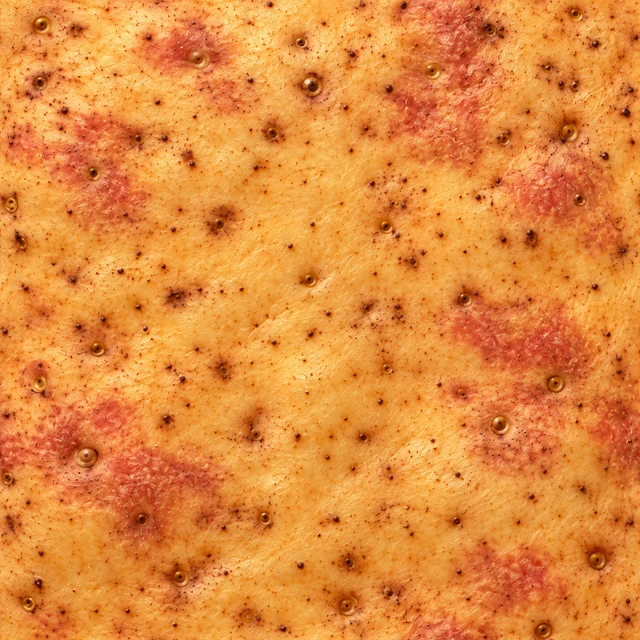
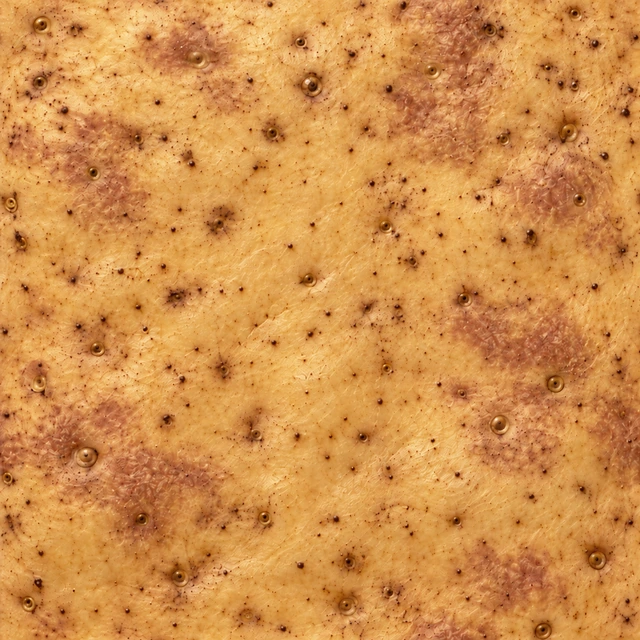
Apply less saturated potato peel texture (v0.22.24)

diff --git a/index.html b/index.html
@@ -1,5 +1,5 @@
 <!doctype html>
-<html lang="it"><head><meta charset="utf-8"><meta name="viewport" content="width=device-width,initial-scale=1,viewport-fit=cover,user-scalable=no"><meta name="theme-color" content="#34252c"><link rel="icon" type="image/svg+xml" href="./favicon.svg?v=0.22.22"><title>10 Potatoes</title>
+<html lang="it"><head><meta charset="utf-8"><meta name="viewport" content="width=device-width,initial-scale=1,viewport-fit=cover,user-scalable=no"><meta name="theme-color" content="#34252c"><link rel="icon" type="image/svg+xml" href="./favicon.svg?v=0.22.24"><title>10 Potatoes</title>
 <style>
 *{box-sizing:border-box}html,body{margin:0;height:100%;font-family:system-ui,Arial;background:#0b1629;color:white;overscroll-behavior:none}#app{height:100dvh;max-width:560px;margin:auto;display:flex;flex-direction:column;background:#23354f}header{flex:none;display:flex;align-items:center;justify-content:space-between;gap:8px;padding:calc(12px + env(safe-area-inset-top)) 12px 12px;background:#101e34}header strong{font-size:15px}header small{display:block;color:#adc0da;font-size:11px}#clock{font-size:22px;font-weight:800;font-variant-numeric:tabular-nums}button{background:#1c3556;border:1px solid #7595c4;color:#fff;border-radius:14px;padding:10px 12px;font-weight:700}#board{flex:1;position:relative;overflow:hidden;touch-action:none;background:radial-gradient(ellipse at 50% 46%,#66748b,#3c526e 70%,#243751)}#board:before{content:"";position:absolute;inset:0;opacity:.09;pointer-events:none;background:repeating-linear-gradient(35deg,transparent 0 21px,#fff 22px 23px)}.slot,.piece{position:absolute;width:26.928%;aspect-ratio:1;transform:translate(-50%,-50%);touch-action:none}.slot{visibility:hidden}.board-live .slot{visibility:visible}.slot svg,.piece svg{width:100%;height:100%;overflow:visible}.slot path{fill:#111925;stroke:#dfb679;stroke-width:1.8;filter:drop-shadow(0 1px 2px #e1ad65)}.slot.done path{fill:#166b4b;stroke:#7fe5a3}.pedestal{position:absolute;left:50%;top:50%;width:28%;aspect-ratio:1;border-radius:50%;transform:translate(-50%,-50%);background:radial-gradient(circle at 30% 20%,#838793,#2c3444);border:0;box-shadow:0 12px 17px #0c152c8a;pointer-events:none}.piece{left:50%;top:50%;z-index:3;filter:drop-shadow(0 7px 4px #092219aa)}.piece path{fill:#27c967;stroke:#a2ffc3;stroke-width:2}.piece.drag{z-index:10}.piece.done{pointer-events:none}footer{flex:none;display:flex;justify-content:space-between;align-items:center;gap:6px;padding:12px 12px calc(12px + env(safe-area-inset-bottom));background:#0c1c30;font-size:12px}footer button{font-size:12px;padding:10px 9px}footer button{flex:1}.handLabel{flex:1;align-self:center;text-align:center;font-size:12px;font-weight:700;color:#c4d4ea}footer button.selected{background:#236b55;border-color:#9be5b8}#msg{display:none}#countdown{position:absolute;inset:0;display:flex;align-items:center;justify-content:center;z-index:20;pointer-events:none}#startButton{pointer-events:auto;font-size:24px;padding:18px 36px;background:#206a4e;border:2px solid #a3edbb;box-shadow:0 6px 20px #081d2a99}#countNumber{font-size:clamp(90px,25vw,160px);color:#fff;text-shadow:0 5px 25px #091b2e;display:none}#myProgress{position:absolute;inset:0;background:#101e34;z-index:45;overflow-y:auto;flex-direction:column;gap:14px;padding:20px}#myProgress h2{text-align:center;margin:0}#progressStats{font-size:13px;line-height:1.8;color:#d9e8f8}#progressGraph{width:100%;background:#152841;border-radius:12px;padding:8px}#progressGraph svg{width:100%;height:auto;display:block}.progressNote{font-size:12px;color:#a9bbd2;line-height:1.5}#ranking{position:absolute;inset:0;background:#101e34;z-index:40;overflow-y:auto;display:flex;flex-direction:column;align-items:stretch;padding:20px;gap:10px}#ranking h2{text-align:center;margin:5px}#rankRows{flex:1;overflow:auto;font-size:14px}#rankRows .rankline{display:flex;justify-content:space-between;border-bottom:1px solid #52617a;padding:9px 2px}#rankSubmit{display:flex;flex-wrap:wrap;gap:8px}#rankSubmit p{width:100%;margin:3px}#rankSubmit input{min-width:0;flex:1;width:25%;border-radius:9px;background:#23354f;border:1px solid #7595c4;padding:10px;color:white}#finish{display:none;position:absolute;inset:0;background:#0b172cdd;z-index:30;align-items:center;justify-content:center;flex-direction:column;text-align:center;padding:25px}#finish h2{font-size:27px}#board.complete #finish{display:flex}
 
@@ -1926,13 +1926,13 @@ html,body{background:#221e19;color:#fff4db;font-family:ui-rounded,"Trebuchet MS"
 #app #board.game-screen.complete .slot{transform:translate(-50%,-50%) scale(.90)!important;transform-origin:center center!important;transition:transform .28s ease-out!important}
 #app #board.game-screen.complete #finish{left:26.3192%;width:47.3616%;top:22%;height:54%;padding:12px 10px 5px;background:rgba(53,31,21,.85)!important}
 @media(max-width:390px){#app #board.game-screen.complete #finish{left:25.528%;width:48.944%;padding:10px 8px 4px}}
-</style><link rel="preload" as="image" href="./assets/brand/countdown-3.webp?v=0.22.22"><link rel="preload" as="image" href="./assets/brand/countdown-2.webp?v=0.22.22"><link rel="preload" as="image" href="./assets/brand/countdown-1.webp?v=0.22.22"><link rel="preload" as="image" href="./assets/brand/countdown-start.webp?v=0.22.22"><link rel="preload" as="image" href="./assets/brand/potato-peel-approved.webp?v=0.22.22"></head><body><div id="app"><header><button id="homeButton" title="Vai alla scelta dei livelli" aria-label="Gioca: vai alla scelta dei livelli"><svg viewBox="0 0 32 32" aria-hidden="true"><path class="homePlayIcon" d="M11 7.5 25 16 11 24.5Z"/><path class="homeExitIcon" d="M9 9 23 23 M23 9 9 23"/></svg><svg class="toolbarPotato" viewBox="80 669 98 90" role="img" aria-label="Patata 10 Potatoes"><image href="./assets/brand/10potatoes-board.jpeg?v=0.22.5" width="1536" height="768"/></svg><span>PLAY</span></button><button id="restart" title="Rigioca dall'inizio" aria-label="Rigioca dall'inizio"><svg viewBox="0 0 32 32" aria-hidden="true"><path d="M9.2 12.3a10 10 0 1 1-2.1 7.1"/><path d="M9.2 5.7v7.2H16"/></svg></button><div><img id="gameBrand" class="brandArt" src="./assets/brand/10potatoes-logo-transparent.png?v=0.22.22" alt="10 Potatoes" width="2205" height="713"><strong class="gameLevelInfo"><span id="levelTitle">LIVELLO 1</span> <span style="font-size:10px;color:#9bb5d5">v0.22.22</span></strong><small id="progress">0 / 10 patate</small></div><div id="clock">00:00.000</div><div><small id="personalRecordLabel">IL TUO RECORD</small><strong id="best">—</strong></div><button id="soundToggle" title="Disattiva musica" aria-label="Disattiva musica">♫</button><button id="progressButton" title="Analisi delle performance" aria-label="Analisi delle performance" hidden>📈</button><button id="rankingButton" title="Classifiche" aria-label="Classifiche">🏆</button><button id="profileButton" type="button" title="Profilo" aria-label="Apri profilo">♙</button><button id="refresh" title="Aggiorna app" aria-label="Aggiorna app">⟳</button></header><main id="board"><section id="homePage"><div class="potatoBrand"><svg class="brandArt" viewBox="0 381 847 273" role="img" aria-label="10 Potatoes — Fai alla svelta o sei fritto!"><image href="./assets/brand/10potatoes-board.jpeg?v=0.22.5" width="1536" height="768"/></svg></div><p class="homeSubtitle">Scegli il tuo livello</p><div class="levelGrid" aria-label="Selezione dei dieci livelli"><button data-mode="1" class=""><b>01</b><span>Livello 1<small>Fondamentali</small></span></button><button data-mode="2" class=""><b>02</b><span>Livello 2<small>Orientamento</small></span></button><button data-mode="4" class="levelNew"><b>03</b><span>Livello 3<small>Nuove sagome</small></span></button><button data-mode="7"><b>04</b><span>Livello 4<small>Bordi morbidi</small></span></button><button data-mode="8"><b>05</b><span>Livello 5<small>Curve fluide</small></span></button><button data-mode="9"><b>06</b><span>Livello 6<small>Profili irregolari</small></span></button><button data-mode="10"><b>07</b><span>Livello 7<small>Incavi</small></span></button><button data-mode="11"><b>08</b><span>Livello 8<small>Sagome organiche</small></span></button><button data-mode="12"><b>09</b><span>Livello 9<small>Dettagli sottili</small></span></button><button data-mode="13"><b>10</b><span>Livello 10<small>Curve simili</small></span></button></div><div class="seriesModes" aria-label="Modalità a più livelli"><button data-mode="14" class="overallLaunch">✦ OVERALL<small>10 livelli</small></button></div><p class="percentileLegend"><span class="rankSwatch purple"></span> Posizioni più basse <span class="rankSwatch green"></span> Posizioni migliori · classifica mondiale</p><div class="homeLinks"><button id="homeRanking">🏆 Classifiche e analisi performance</button></div></section><div id="launchFx" aria-hidden="true"><div class="pulseWash"></div><div class="pulseRays"></div><div class="pulseGlow"></div></div><div id="preGameIdentity" aria-live="polite"><div id="preGameMode"></div><div id="preGameLevel"></div><div id="preGameDetail"></div></div><div id="overallSplit" hidden><div class="splitLabel">INTERTEMPO · LIVELLO 1</div><div id="splitTime" class="splitTime"></div><div id="splitDelta" class="splitDelta"></div></div><div id="countdown" aria-live="polite"><button id="startButton" aria-label="START: affetta la patata e gioca">START</button><strong id="countNumber"></strong></div><div id="myProgress" style="display:none"><div class="progressTop"><h2>Analisi delle performance</h2><button id="closeProgress" type="button" aria-label="Chiudi analisi">✕</button></div><nav class="sectionSwitch" aria-label="Sezioni"><button type="button" disabled aria-current="page">📈 Analisi delle performance</button><button type="button" id="statsToRanking">🏆 Classifica</button></nav><div id="difficultySection"><button id="difficultyToggle" type="button" disabled aria-expanded="false">📉 Difficoltà 1–10 · 0/10 livelli completati</button><div id="difficultyChart" hidden></div></div><div class="statsCarouselShell"><button id="statsPrev" class="statsSlideArrow" type="button" aria-label="Livello precedente">‹</button><div class="modeTabs" id="statsTabs" role="group" aria-label="Livelli da analizzare"><button data-stat="1">L1</button><button data-stat="2">L2</button><button data-stat="4">L3</button><button data-stat="7">L4</button><button data-stat="8">L5</button><button data-stat="9">L6</button><button data-stat="10">L7</button><button data-stat="11">L8</button><button data-stat="12">L9</button><button data-stat="13">L10</button><button data-stat="14">Overall</button></div><button id="statsNext" class="statsSlideArrow" type="button" aria-label="Livello successivo">›</button></div><div id="progressStats" hidden></div><section id="sectorAnalysis"></section><section id="behaviorAnalysis" aria-label="Completamento e interruzioni"></section><button id="playAnalyzedLevel" type="button">▶ Gioca di nuovo livello 1</button><h3>Storico · ultimi 100 tentativi</h3><div id="progressGraph"></div><p class="progressNote">Ogni punto è un tentativo. I punti arancioni indicano le partite scadute a 60 secondi.</p></div><div id="ranking" style="display:none"><div class="rankingTop"><h2>🏆 Classifica mondiale</h2><button id="closeRanking" aria-label="Chiudi classifica">✕</button></div><nav class="sectionSwitch" aria-label="Sezioni"><button type="button" id="rankingToStats">📈 Analisi delle performance</button><button type="button" disabled aria-current="page">🏆 Classifica</button></nav><div class="rankCarouselShell"><button id="rankPrev" class="rankSlideArrow" type="button" aria-label="Livello precedente">‹</button><div class="rankCarousel" id="rankTabs" role="group" aria-label="Scorri le classifiche dei livelli"><button data-rank="1">L1</button><button data-rank="2">L2</button><button data-rank="4">L3</button><button data-rank="7">L4</button><button data-rank="8">L5</button><button data-rank="9">L6</button><button data-rank="10">L7</button><button data-rank="11">L8</button><button data-rank="12">L9</button><button data-rank="13">L10</button><button data-rank="14">Overall</button></div><button id="rankNext" class="rankSlideArrow" type="button" aria-label="Livello successivo">›</button></div><div class="modeTabs" id="rankScopes"><button data-scope="national">Italia / Paese</button><button data-scope="world">Mondo</button></div><div id="rankSpotlight" aria-live="polite"><div class="rankMetric"><span id="rankMetricLabel">LA MIA POSIZIONE</span><strong id="rankMetricValue">—</strong></div><div class="rankMetric rankGap"><span id="rankGapLabel">DISTACCO DAL PRIMO</span><strong id="rankGapValue">—</strong></div><div class="rankQuickActions"><button id="jumpToMe" type="button" disabled>↓ Visualizza la mia posizione</button><button id="playRankedLevel" type="button">▶ Gioca livello 1</button></div></div><div id="rankRows">Caricamento...</div></div><div id="profileOverlay" hidden><div class="profilePanel" role="dialog" aria-modal="true" aria-labelledby="profileTitle"><button id="closeProfile" type="button" aria-label="Chiudi profilo">✕</button><h2 id="profileTitle">Il tuo profilo</h2><p id="profileIntro">Scegli il nome che comparirà nelle classifiche.</p><label for="nick">Nome giocatore</label><input id="nick" maxlength="20" autocomplete="nickname" placeholder="Nickname (2–20 caratteri)"><label for="country" id="profileCountryLabel">Paese (rilevato dalla lingua del dispositivo, modificabile)</label><input id="country" maxlength="2" autocomplete="country" list="countrySuggestions" placeholder="IT" value="IT"><datalist id="countrySuggestions"><option value="IT">Italia</option><option value="US">United States</option><option value="GB">United Kingdom</option><option value="FR">France</option><option value="DE">Deutschland</option><option value="ES">España</option><option value="PT">Portugal</option><option value="BR">Brasil</option><option value="CH">Schweiz</option><option value="AT">Österreich</option><option value="NL">Nederland</option><option value="BE">België</option><option value="PL">Polska</option><option value="RO">România</option><option value="GR">Ελλάδα</option><option value="AL">Shqipëria</option><option value="HR">Hrvatska</option><option value="SI">Slovenija</option><option value="SE">Sverige</option><option value="NO">Norge</option><option value="DK">Danmark</option><option value="FI">Suomi</option><option value="IE">Ireland</option><option value="CA">Canada</option><option value="AU">Australia</option><option value="JP">日本</option><option value="CN">中国</option><option value="IN">India</option><option value="MX">México</option><option value="AR">Argentina</option></datalist><label for="profileLanguage" id="profileLanguageLabel">Lingua</label><select id="profileLanguage"><option value="auto">Automatica (dispositivo)</option><option value="it">Italiano</option><option value="en">English</option><option value="fr">Français</option><option value="es">Español</option><option value="de">Deutsch</option><option value="pt">Português</option><option value="ja">日本語</option><option value="ko">한국어</option><option value="zh-CN">简体中文</option><option value="id">Bahasa Indonesia</option></select><label for="profileHand" id="profileHandLabel">Mano dominante</label><select id="profileHand"><option value="right">Destra</option><option value="left">Sinistra</option></select><label for="profileMusic" id="profileMusicLabel">Colonna sonora</label><select id="profileMusic"><option value="cinematic">Sci-fi cinematica</option><option value="ambient">Ambient futuristico</option><option value="techno">Minimal techno</option></select><button id="sendScore" type="button">Salva profilo</button><p id="rankMessage" role="status"></p></div></div><div id="finish" role="region" aria-label="Risultati della partita" tabindex="0"><section id="finishScore" aria-label="Tempo e settori"><h2>Livello completato</h2><div id="recordCelebration" hidden><div id="recordCelebrationTime"></div><div id="recordCelebrationGain"></div></div><div id="finishTimePanel" hidden><div class="finishTimeLabel">TEMPO REALIZZATO</div><div class="finishTimeValue" id="finishTimeValue"></div><div class="finishTimeDelta" id="finishTimeDelta"></div></div><div id="finishSectors" hidden></div><div id="recordPositions" hidden aria-live="polite"></div><p id="summary"></p></section><div class="finishActions" id="finishCommands" role="group" aria-label="Azioni dopo la partita"><div class="finishPrimary"><button id="again">↻ Rigioca</button><button id="finishHome">Tutti i livelli</button></div><div class="finishNav"><button id="previousLevel" class="finishLevelArrow" aria-label="Vai al livello precedente"><span class="levelArrow">‹</span><span class="levelCaption">LIVELLO 1</span></button><button id="nextLevel" class="finishLevelArrow" aria-label="Vai al livello successivo"><span class="levelArrow">›</span><span class="levelCaption">LIVELLO 2</span></button></div><div class="finishOverviewRow"><button id="finishRanking" class="finishOverview" title="Classifiche" aria-label="Apri classifiche">Classifiche</button><button id="finishProgress" class="finishOverview" title="Performance" aria-label="Apri performance">Performance</button></div></div></div></main><footer><span id="msg" aria-live="polite"></span><div id="handControls" role="group" aria-labelledby="gameHandLabel"><button id="leftHand">Sinistra</button><span class="handLabel" id="gameHandLabel">Mano dominante</span><button id="rightHand">Destra</button></div><div id="adSlot" role="complementary" aria-label="Spazio riservato alla pubblicità"><div class="adPlaceholder"><span class="adTag">PUBBLICITÀ</span><span class="adBrand"><svg class="brandArt" viewBox="900 662 416 100" role="img" aria-label="10 Potatoes — Fai alla svelta o sei fritto!"><image href="./assets/brand/10potatoes-board.jpeg?v=0.22.5" width="1536" height="768"/></svg></span><span class="adCaption">Spazio riservato al banner</span></div></div></footer></div>
-<link rel="stylesheet" href="./social.css?v=0.22.22">
-<link rel="stylesheet" href="./potato-theme.css?v=0.22.22">
-<script src="./i18n.js?v=0.22.22"></script>
-<script src="./social-config.js?v=0.22.22"></script>
-<script src="./social.js?v=0.22.22"></script>
-<script src="./potato-approved.js?v=0.22.22"></script>
+</style><link rel="preload" as="image" href="./assets/brand/countdown-3.webp?v=0.22.24"><link rel="preload" as="image" href="./assets/brand/countdown-2.webp?v=0.22.24"><link rel="preload" as="image" href="./assets/brand/countdown-1.webp?v=0.22.24"><link rel="preload" as="image" href="./assets/brand/countdown-start.webp?v=0.22.24"><link rel="preload" as="image" href="./assets/brand/potato-peel-approved.webp?v=0.22.24"></head><body><div id="app"><header><button id="homeButton" title="Vai alla scelta dei livelli" aria-label="Gioca: vai alla scelta dei livelli"><svg viewBox="0 0 32 32" aria-hidden="true"><path class="homePlayIcon" d="M11 7.5 25 16 11 24.5Z"/><path class="homeExitIcon" d="M9 9 23 23 M23 9 9 23"/></svg><svg class="toolbarPotato" viewBox="80 669 98 90" role="img" aria-label="Patata 10 Potatoes"><image href="./assets/brand/10potatoes-board.jpeg?v=0.22.5" width="1536" height="768"/></svg><span>PLAY</span></button><button id="restart" title="Rigioca dall'inizio" aria-label="Rigioca dall'inizio"><svg viewBox="0 0 32 32" aria-hidden="true"><path d="M9.2 12.3a10 10 0 1 1-2.1 7.1"/><path d="M9.2 5.7v7.2H16"/></svg></button><div><img id="gameBrand" class="brandArt" src="./assets/brand/10potatoes-logo-transparent.png?v=0.22.24" alt="10 Potatoes" width="2205" height="713"><strong class="gameLevelInfo"><span id="levelTitle">LIVELLO 1</span> <span style="font-size:10px;color:#9bb5d5">v0.22.24</span></strong><small id="progress">0 / 10 patate</small></div><div id="clock">00:00.000</div><div><small id="personalRecordLabel">IL TUO RECORD</small><strong id="best">—</strong></div><button id="soundToggle" title="Disattiva musica" aria-label="Disattiva musica">♫</button><button id="progressButton" title="Analisi delle performance" aria-label="Analisi delle performance" hidden>📈</button><button id="rankingButton" title="Classifiche" aria-label="Classifiche">🏆</button><button id="profileButton" type="button" title="Profilo" aria-label="Apri profilo">♙</button><button id="refresh" title="Aggiorna app" aria-label="Aggiorna app">⟳</button></header><main id="board"><section id="homePage"><div class="potatoBrand"><svg class="brandArt" viewBox="0 381 847 273" role="img" aria-label="10 Potatoes — Fai alla svelta o sei fritto!"><image href="./assets/brand/10potatoes-board.jpeg?v=0.22.5" width="1536" height="768"/></svg></div><p class="homeSubtitle">Scegli il tuo livello</p><div class="levelGrid" aria-label="Selezione dei dieci livelli"><button data-mode="1" class=""><b>01</b><span>Livello 1<small>Fondamentali</small></span></button><button data-mode="2" class=""><b>02</b><span>Livello 2<small>Orientamento</small></span></button><button data-mode="4" class="levelNew"><b>03</b><span>Livello 3<small>Nuove sagome</small></span></button><button data-mode="7"><b>04</b><span>Livello 4<small>Bordi morbidi</small></span></button><button data-mode="8"><b>05</b><span>Livello 5<small>Curve fluide</small></span></button><button data-mode="9"><b>06</b><span>Livello 6<small>Profili irregolari</small></span></button><button data-mode="10"><b>07</b><span>Livello 7<small>Incavi</small></span></button><button data-mode="11"><b>08</b><span>Livello 8<small>Sagome organiche</small></span></button><button data-mode="12"><b>09</b><span>Livello 9<small>Dettagli sottili</small></span></button><button data-mode="13"><b>10</b><span>Livello 10<small>Curve simili</small></span></button></div><div class="seriesModes" aria-label="Modalità a più livelli"><button data-mode="14" class="overallLaunch">✦ OVERALL<small>10 livelli</small></button></div><p class="percentileLegend"><span class="rankSwatch purple"></span> Posizioni più basse <span class="rankSwatch green"></span> Posizioni migliori · classifica mondiale</p><div class="homeLinks"><button id="homeRanking">🏆 Classifiche e analisi performance</button></div></section><div id="launchFx" aria-hidden="true"><div class="pulseWash"></div><div class="pulseRays"></div><div class="pulseGlow"></div></div><div id="preGameIdentity" aria-live="polite"><div id="preGameMode"></div><div id="preGameLevel"></div><div id="preGameDetail"></div></div><div id="overallSplit" hidden><div class="splitLabel">INTERTEMPO · LIVELLO 1</div><div id="splitTime" class="splitTime"></div><div id="splitDelta" class="splitDelta"></div></div><div id="countdown" aria-live="polite"><button id="startButton" aria-label="START: affetta la patata e gioca">START</button><strong id="countNumber"></strong></div><div id="myProgress" style="display:none"><div class="progressTop"><h2>Analisi delle performance</h2><button id="closeProgress" type="button" aria-label="Chiudi analisi">✕</button></div><nav class="sectionSwitch" aria-label="Sezioni"><button type="button" disabled aria-current="page">📈 Analisi delle performance</button><button type="button" id="statsToRanking">🏆 Classifica</button></nav><div id="difficultySection"><button id="difficultyToggle" type="button" disabled aria-expanded="false">📉 Difficoltà 1–10 · 0/10 livelli completati</button><div id="difficultyChart" hidden></div></div><div class="statsCarouselShell"><button id="statsPrev" class="statsSlideArrow" type="button" aria-label="Livello precedente">‹</button><div class="modeTabs" id="statsTabs" role="group" aria-label="Livelli da analizzare"><button data-stat="1">L1</button><button data-stat="2">L2</button><button data-stat="4">L3</button><button data-stat="7">L4</button><button data-stat="8">L5</button><button data-stat="9">L6</button><button data-stat="10">L7</button><button data-stat="11">L8</button><button data-stat="12">L9</button><button data-stat="13">L10</button><button data-stat="14">Overall</button></div><button id="statsNext" class="statsSlideArrow" type="button" aria-label="Livello successivo">›</button></div><div id="progressStats" hidden></div><section id="sectorAnalysis"></section><section id="behaviorAnalysis" aria-label="Completamento e interruzioni"></section><button id="playAnalyzedLevel" type="button">▶ Gioca di nuovo livello 1</button><h3>Storico · ultimi 100 tentativi</h3><div id="progressGraph"></div><p class="progressNote">Ogni punto è un tentativo. I punti arancioni indicano le partite scadute a 60 secondi.</p></div><div id="ranking" style="display:none"><div class="rankingTop"><h2>🏆 Classifica mondiale</h2><button id="closeRanking" aria-label="Chiudi classifica">✕</button></div><nav class="sectionSwitch" aria-label="Sezioni"><button type="button" id="rankingToStats">📈 Analisi delle performance</button><button type="button" disabled aria-current="page">🏆 Classifica</button></nav><div class="rankCarouselShell"><button id="rankPrev" class="rankSlideArrow" type="button" aria-label="Livello precedente">‹</button><div class="rankCarousel" id="rankTabs" role="group" aria-label="Scorri le classifiche dei livelli"><button data-rank="1">L1</button><button data-rank="2">L2</button><button data-rank="4">L3</button><button data-rank="7">L4</button><button data-rank="8">L5</button><button data-rank="9">L6</button><button data-rank="10">L7</button><button data-rank="11">L8</button><button data-rank="12">L9</button><button data-rank="13">L10</button><button data-rank="14">Overall</button></div><button id="rankNext" class="rankSlideArrow" type="button" aria-label="Livello successivo">›</button></div><div class="modeTabs" id="rankScopes"><button data-scope="national">Italia / Paese</button><button data-scope="world">Mondo</button></div><div id="rankSpotlight" aria-live="polite"><div class="rankMetric"><span id="rankMetricLabel">LA MIA POSIZIONE</span><strong id="rankMetricValue">—</strong></div><div class="rankMetric rankGap"><span id="rankGapLabel">DISTACCO DAL PRIMO</span><strong id="rankGapValue">—</strong></div><div class="rankQuickActions"><button id="jumpToMe" type="button" disabled>↓ Visualizza la mia posizione</button><button id="playRankedLevel" type="button">▶ Gioca livello 1</button></div></div><div id="rankRows">Caricamento...</div></div><div id="profileOverlay" hidden><div class="profilePanel" role="dialog" aria-modal="true" aria-labelledby="profileTitle"><button id="closeProfile" type="button" aria-label="Chiudi profilo">✕</button><h2 id="profileTitle">Il tuo profilo</h2><p id="profileIntro">Scegli il nome che comparirà nelle classifiche.</p><label for="nick">Nome giocatore</label><input id="nick" maxlength="20" autocomplete="nickname" placeholder="Nickname (2–20 caratteri)"><label for="country" id="profileCountryLabel">Paese (rilevato dalla lingua del dispositivo, modificabile)</label><input id="country" maxlength="2" autocomplete="country" list="countrySuggestions" placeholder="IT" value="IT"><datalist id="countrySuggestions"><option value="IT">Italia</option><option value="US">United States</option><option value="GB">United Kingdom</option><option value="FR">France</option><option value="DE">Deutschland</option><option value="ES">España</option><option value="PT">Portugal</option><option value="BR">Brasil</option><option value="CH">Schweiz</option><option value="AT">Österreich</option><option value="NL">Nederland</option><option value="BE">België</option><option value="PL">Polska</option><option value="RO">România</option><option value="GR">Ελλάδα</option><option value="AL">Shqipëria</option><option value="HR">Hrvatska</option><option value="SI">Slovenija</option><option value="SE">Sverige</option><option value="NO">Norge</option><option value="DK">Danmark</option><option value="FI">Suomi</option><option value="IE">Ireland</option><option value="CA">Canada</option><option value="AU">Australia</option><option value="JP">日本</option><option value="CN">中国</option><option value="IN">India</option><option value="MX">México</option><option value="AR">Argentina</option></datalist><label for="profileLanguage" id="profileLanguageLabel">Lingua</label><select id="profileLanguage"><option value="auto">Automatica (dispositivo)</option><option value="it">Italiano</option><option value="en">English</option><option value="fr">Français</option><option value="es">Español</option><option value="de">Deutsch</option><option value="pt">Português</option><option value="ja">日本語</option><option value="ko">한국어</option><option value="zh-CN">简体中文</option><option value="id">Bahasa Indonesia</option></select><label for="profileHand" id="profileHandLabel">Mano dominante</label><select id="profileHand"><option value="right">Destra</option><option value="left">Sinistra</option></select><label for="profileMusic" id="profileMusicLabel">Colonna sonora</label><select id="profileMusic"><option value="cinematic">Sci-fi cinematica</option><option value="ambient">Ambient futuristico</option><option value="techno">Minimal techno</option></select><button id="sendScore" type="button">Salva profilo</button><p id="rankMessage" role="status"></p></div></div><div id="finish" role="region" aria-label="Risultati della partita" tabindex="0"><section id="finishScore" aria-label="Tempo e settori"><h2>Livello completato</h2><div id="recordCelebration" hidden><div id="recordCelebrationTime"></div><div id="recordCelebrationGain"></div></div><div id="finishTimePanel" hidden><div class="finishTimeLabel">TEMPO REALIZZATO</div><div class="finishTimeValue" id="finishTimeValue"></div><div class="finishTimeDelta" id="finishTimeDelta"></div></div><div id="finishSectors" hidden></div><div id="recordPositions" hidden aria-live="polite"></div><p id="summary"></p></section><div class="finishActions" id="finishCommands" role="group" aria-label="Azioni dopo la partita"><div class="finishPrimary"><button id="again">↻ Rigioca</button><button id="finishHome">Tutti i livelli</button></div><div class="finishNav"><button id="previousLevel" class="finishLevelArrow" aria-label="Vai al livello precedente"><span class="levelArrow">‹</span><span class="levelCaption">LIVELLO 1</span></button><button id="nextLevel" class="finishLevelArrow" aria-label="Vai al livello successivo"><span class="levelArrow">›</span><span class="levelCaption">LIVELLO 2</span></button></div><div class="finishOverviewRow"><button id="finishRanking" class="finishOverview" title="Classifiche" aria-label="Apri classifiche">Classifiche</button><button id="finishProgress" class="finishOverview" title="Performance" aria-label="Apri performance">Performance</button></div></div></div></main><footer><span id="msg" aria-live="polite"></span><div id="handControls" role="group" aria-labelledby="gameHandLabel"><button id="leftHand">Sinistra</button><span class="handLabel" id="gameHandLabel">Mano dominante</span><button id="rightHand">Destra</button></div><div id="adSlot" role="complementary" aria-label="Spazio riservato alla pubblicità"><div class="adPlaceholder"><span class="adTag">PUBBLICITÀ</span><span class="adBrand"><svg class="brandArt" viewBox="900 662 416 100" role="img" aria-label="10 Potatoes — Fai alla svelta o sei fritto!"><image href="./assets/brand/10potatoes-board.jpeg?v=0.22.5" width="1536" height="768"/></svg></span><span class="adCaption">Spazio riservato al banner</span></div></div></footer></div>
+<link rel="stylesheet" href="./social.css?v=0.22.24">
+<link rel="stylesheet" href="./potato-theme.css?v=0.22.24">
+<script src="./i18n.js?v=0.22.24"></script>
+<script src="./social-config.js?v=0.22.24"></script>
+<script src="./social.js?v=0.22.24"></script>
+<script src="./potato-approved.js?v=0.22.24"></script>
 <script src="./potato-soundtrack.js?v=7"></script>
 <script src="./potato-voice-catalog.js?v=1"></script>
 <script src="./potato-voices.js?v=5"></script>
@@ -3230,8 +3230,8 @@ function slicingPotato(digit=null){
  }
  return art+"</svg>";
 }
-function renderStartPotato(){document.getElementById("startButton").innerHTML='<img class="potatoStartWord" src="./assets/brand/countdown-start.webp?v=0.22.22" alt="START" draggable="false">';document.getElementById("startButton").setAttribute('aria-label','START: inizia la partita')}
-function renderCountdownDigit(n){const number=document.getElementById("countNumber");number.dataset.digit=String(n);number.setAttribute("aria-label",String(n));const image=document.createElement('img');image.className='countdownPotato';image.src='./assets/brand/countdown-'+n+'.webp?v=0.22.22';image.alt='';image.draggable=false;number.replaceChildren(image)}
+function renderStartPotato(){document.getElementById("startButton").innerHTML='<img class="potatoStartWord" src="./assets/brand/countdown-start.webp?v=0.22.24" alt="START" draggable="false">';document.getElementById("startButton").setAttribute('aria-label','START: inizia la partita')}
+function renderCountdownDigit(n){const number=document.getElementById("countNumber");number.dataset.digit=String(n);number.setAttribute("aria-label",String(n));const image=document.createElement('img');image.className='countdownPotato';image.src='./assets/brand/countdown-'+n+'.webp?v=0.22.24';image.alt='';image.draggable=false;number.replaceChildren(image)}
 // Keep the score between side seats; expand commands into the unused hand side.
 function layoutFinish(){
  if(!board.classList.contains("complete"))return;

diff --git a/potato-approved.js b/potato-approved.js
@@ -58,6 +58,6 @@ if(texturePixels){
 }return data}
 
 let cached;function texture(){if(cached)return cached;const c=document.createElement("canvas");c.width=c.height=384;const ctx=c.getContext("2d"),im=ctx.createImageData(384,384);im.data.set(renderPotato(384));ctx.putImageData(im,0,0);return cached=c.toDataURL("image/png")}
-const peelImage=new Image();peelImage.onload=()=>{try{const canvas=document.createElement('canvas');canvas.width=canvas.height=640;const ctx=canvas.getContext('2d');ctx.drawImage(peelImage,0,0,640,640);texturePixels=ctx.getImageData(0,0,640,640).data;cached=null;const material=texture();document.querySelectorAll('svg.potato-piece pattern image').forEach(image=>image.setAttribute('href',material))}catch(e){}};peelImage.src='./assets/brand/potato-peel-approved.webp?v=0.22.22';
+const peelImage=new Image();peelImage.onload=()=>{try{const canvas=document.createElement('canvas');canvas.width=canvas.height=640;const ctx=canvas.getContext('2d');ctx.drawImage(peelImage,0,0,640,640);texturePixels=ctx.getImageData(0,0,640,640).data;cached=null;const material=texture();document.querySelectorAll('svg.potato-piece pattern image').forEach(image=>image.setAttribute('href',material))}catch(e){}};peelImage.src='./assets/brand/potato-peel-approved.webp?v=0.22.24';
 window.ApprovedPotato={texture,face:"<defs>\n<radialGradient id=\"study-white\" cx=\"32%\" cy=\"16%\" r=\"78%\"><stop stop-color=\"#fff\"/><stop offset=\".7\" stop-color=\"#fffdf9\"/><stop offset=\"1\" stop-color=\"#eaded0\"/></radialGradient>\n<radialGradient id=\"study-iris\" cx=\"46%\" cy=\"38%\" r=\"70%\"><stop stop-color=\"#1e0c08\"/><stop offset=\".64\" stop-color=\"#42180e\"/><stop offset=\".84\" stop-color=\"#8e4b26\"/><stop offset=\"1\" stop-color=\"#34150c\"/></radialGradient>\n<linearGradient id=\"study-brow\" x1=\".2\" y1=\"0\" x2=\".7\" y2=\"1\"><stop stop-color=\"#a36334\"/><stop offset=\"1\" stop-color=\"#633018\"/></linearGradient>\n<linearGradient id=\"study-mouth\" x1=\".25\" y1=\"0\" x2=\".65\" y2=\"1\"><stop stop-color=\"#281009\"/><stop offset=\".5\" stop-color=\"#581b12\"/><stop offset=\"1\" stop-color=\"#883322\"/></linearGradient>\n<filter id=\"study-socket\" x=\"-35%\" y=\"-35%\" width=\"170%\" height=\"170%\" color-interpolation-filters=\"sRGB\"><feGaussianBlur in=\"SourceAlpha\" stdDeviation=\"5\" result=\"blur\"/><feOffset in=\"blur\" dx=\"3\" dy=\"7\" result=\"off\"/><feComposite in=\"SourceAlpha\" in2=\"off\" operator=\"out\" result=\"edge\"/><feFlood flood-color=\"#4b200e\" flood-opacity=\".96\"/><feComposite in2=\"edge\" operator=\"in\" result=\"shade\"/><feComposite in=\"shade\" in2=\"SourceGraphic\" operator=\"over\" result=\"sunken\"/><feOffset in=\"blur\" dx=\"-2\" dy=\"-5\" result=\"bounce\"/><feComposite in=\"SourceAlpha\" in2=\"bounce\" operator=\"out\" result=\"rim\"/><feFlood flood-color=\"#ffe5a1\" flood-opacity=\".5\"/><feComposite in2=\"rim\" operator=\"in\"/><feComposite in2=\"sunken\" operator=\"over\"/></filter><filter id=\"study-eye-polish\" x=\"-25%\" y=\"-25%\" width=\"150%\" height=\"150%\" color-interpolation-filters=\"sRGB\"><feGaussianBlur in=\"SourceAlpha\" stdDeviation=\"5.6\" result=\"soft\"/><feOffset in=\"soft\" dx=\"3\" dy=\"9\" result=\"off\"/><feComposite in=\"SourceAlpha\" in2=\"off\" operator=\"out\" result=\"edge\"/><feFlood flood-color=\"#703a22\" flood-opacity=\".88\"/><feComposite in2=\"edge\" operator=\"in\" result=\"shade\"/><feComposite in=\"shade\" in2=\"SourceGraphic\" operator=\"over\" result=\"inset\"/><feOffset in=\"soft\" dx=\"-1.8\" dy=\"-4.5\" result=\"bounce\"/><feComposite in=\"SourceAlpha\" in2=\"bounce\" operator=\"out\" result=\"rim\"/><feFlood flood-color=\"#fff0c6\" flood-opacity=\".68\"/><feComposite in2=\"rim\" operator=\"in\"/><feComposite in2=\"inset\" operator=\"over\"/></filter><filter id=\"study-mouth-cut\" x=\"-20%\" y=\"-30%\" width=\"140%\" height=\"160%\" color-interpolation-filters=\"sRGB\"><feGaussianBlur in=\"SourceAlpha\" stdDeviation=\"2.2\" result=\"soft\"/><feOffset in=\"soft\" dx=\"2\" dy=\"6\" result=\"off\"/><feComposite in=\"SourceAlpha\" in2=\"off\" operator=\"out\" result=\"edge\"/><feFlood flood-color=\"#180703\" flood-opacity=\".95\"/><feComposite in2=\"edge\" operator=\"in\"/><feComposite in2=\"SourceGraphic\" operator=\"over\"/></filter><filter id=\"study-soft\"><feGaussianBlur stdDeviation=\"1.8\"/></filter>\n</defs>\n<g class=\"brows\"><path d=\"M133 120 C136 105 167 98 179 107 C187 112 181 122 175 120 C161 115 150 120 139 124 Q133 126 133 120Z\" fill=\"#975222\" opacity=\".25\" transform=\"translate(0 2)\" filter=\"url(#study-soft)\"/><path d=\"M133 120 C136 105 167 98 179 107 C187 112 181 122 175 120 C161 115 150 120 139 124 Q133 126 133 120Z\" fill=\"url(#study-brow)\" stroke=\"#572b16\" stroke-width=\"1.2\"/><path d=\"M294 106 C304 98 331 102 343 114 C350 122 343 128 336 124 C323 117 313 119 301 120 C294 121 290 113 294 106Z\" fill=\"url(#study-brow)\" stroke=\"#572b16\" stroke-width=\"1.2\"/></g>\n<g class=\"eyes\" transform=\"translate(0 29.4) scale(1 .86)\">\n\n<ellipse cx=\"165\" cy=\"210\" rx=\"51\" ry=\"62\" filter=\"url(#study-eye-polish)\" fill=\"url(#study-white)\" stroke=\"#bd8153\" stroke-width=\"2.4\" transform=\"rotate(-7 165 210)\"/><ellipse cx=\"328\" cy=\"205\" rx=\"51\" ry=\"62\" filter=\"url(#study-eye-polish)\" fill=\"url(#study-white)\" stroke=\"#bd8153\" stroke-width=\"2.4\" transform=\"rotate(6 328 205)\"/>\n<g><ellipse cx=\"175\" cy=\"219\" rx=\"35\" ry=\"48\" fill=\"url(#study-iris)\" transform=\"rotate(-5 175 219)\"/><ellipse cx=\"319\" cy=\"214\" rx=\"35\" ry=\"48\" fill=\"url(#study-iris)\" transform=\"rotate(4 319 214)\"/><ellipse cx=\"177\" cy=\"218\" rx=\"26\" ry=\"37\" fill=\"#180a07\"/><ellipse cx=\"317\" cy=\"213\" rx=\"26\" ry=\"37\" fill=\"#180a07\"/>\n<ellipse cx=\"161\" cy=\"190\" rx=\"8\" ry=\"6\" fill=\"#fff\" transform=\"rotate(-30 161 190)\"/><ellipse cx=\"305\" cy=\"185\" rx=\"8\" ry=\"6\" fill=\"#fff\" transform=\"rotate(-30 305 185)\"/><ellipse cx=\"161\" cy=\"190\" rx=\"10\" ry=\"8\" fill=\"#fff\" opacity=\".15\" filter=\"url(#study-soft)\"/><ellipse cx=\"305\" cy=\"185\" rx=\"10\" ry=\"8\" fill=\"#fff\" opacity=\".15\" filter=\"url(#study-soft)\"/><circle cx=\"191\" cy=\"245\" r=\"5\" fill=\"#f3c79a\" opacity=\".35\"/><circle cx=\"333\" cy=\"240\" r=\"5\" fill=\"#f3c79a\" opacity=\".35\"/></g>\n</g>\n<g class=\"mouth\"><path d=\"M212 280 C218 272 226 288 248 288 C270 288 280 271 288 270 C302 268 290 308 263 315 C237 322 209 303 208 287 Q208 282 212 280Z\" filter=\"url(#study-mouth-cut)\" fill=\"url(#study-mouth)\" stroke=\"#763017\" stroke-width=\"1.7\"/><path d=\"M228 307 Q249 321 270 307\" fill=\"none\" stroke=\"#e5a056\" stroke-width=\"1.4\" opacity=\".75\"/></g>\n"};
 })();
